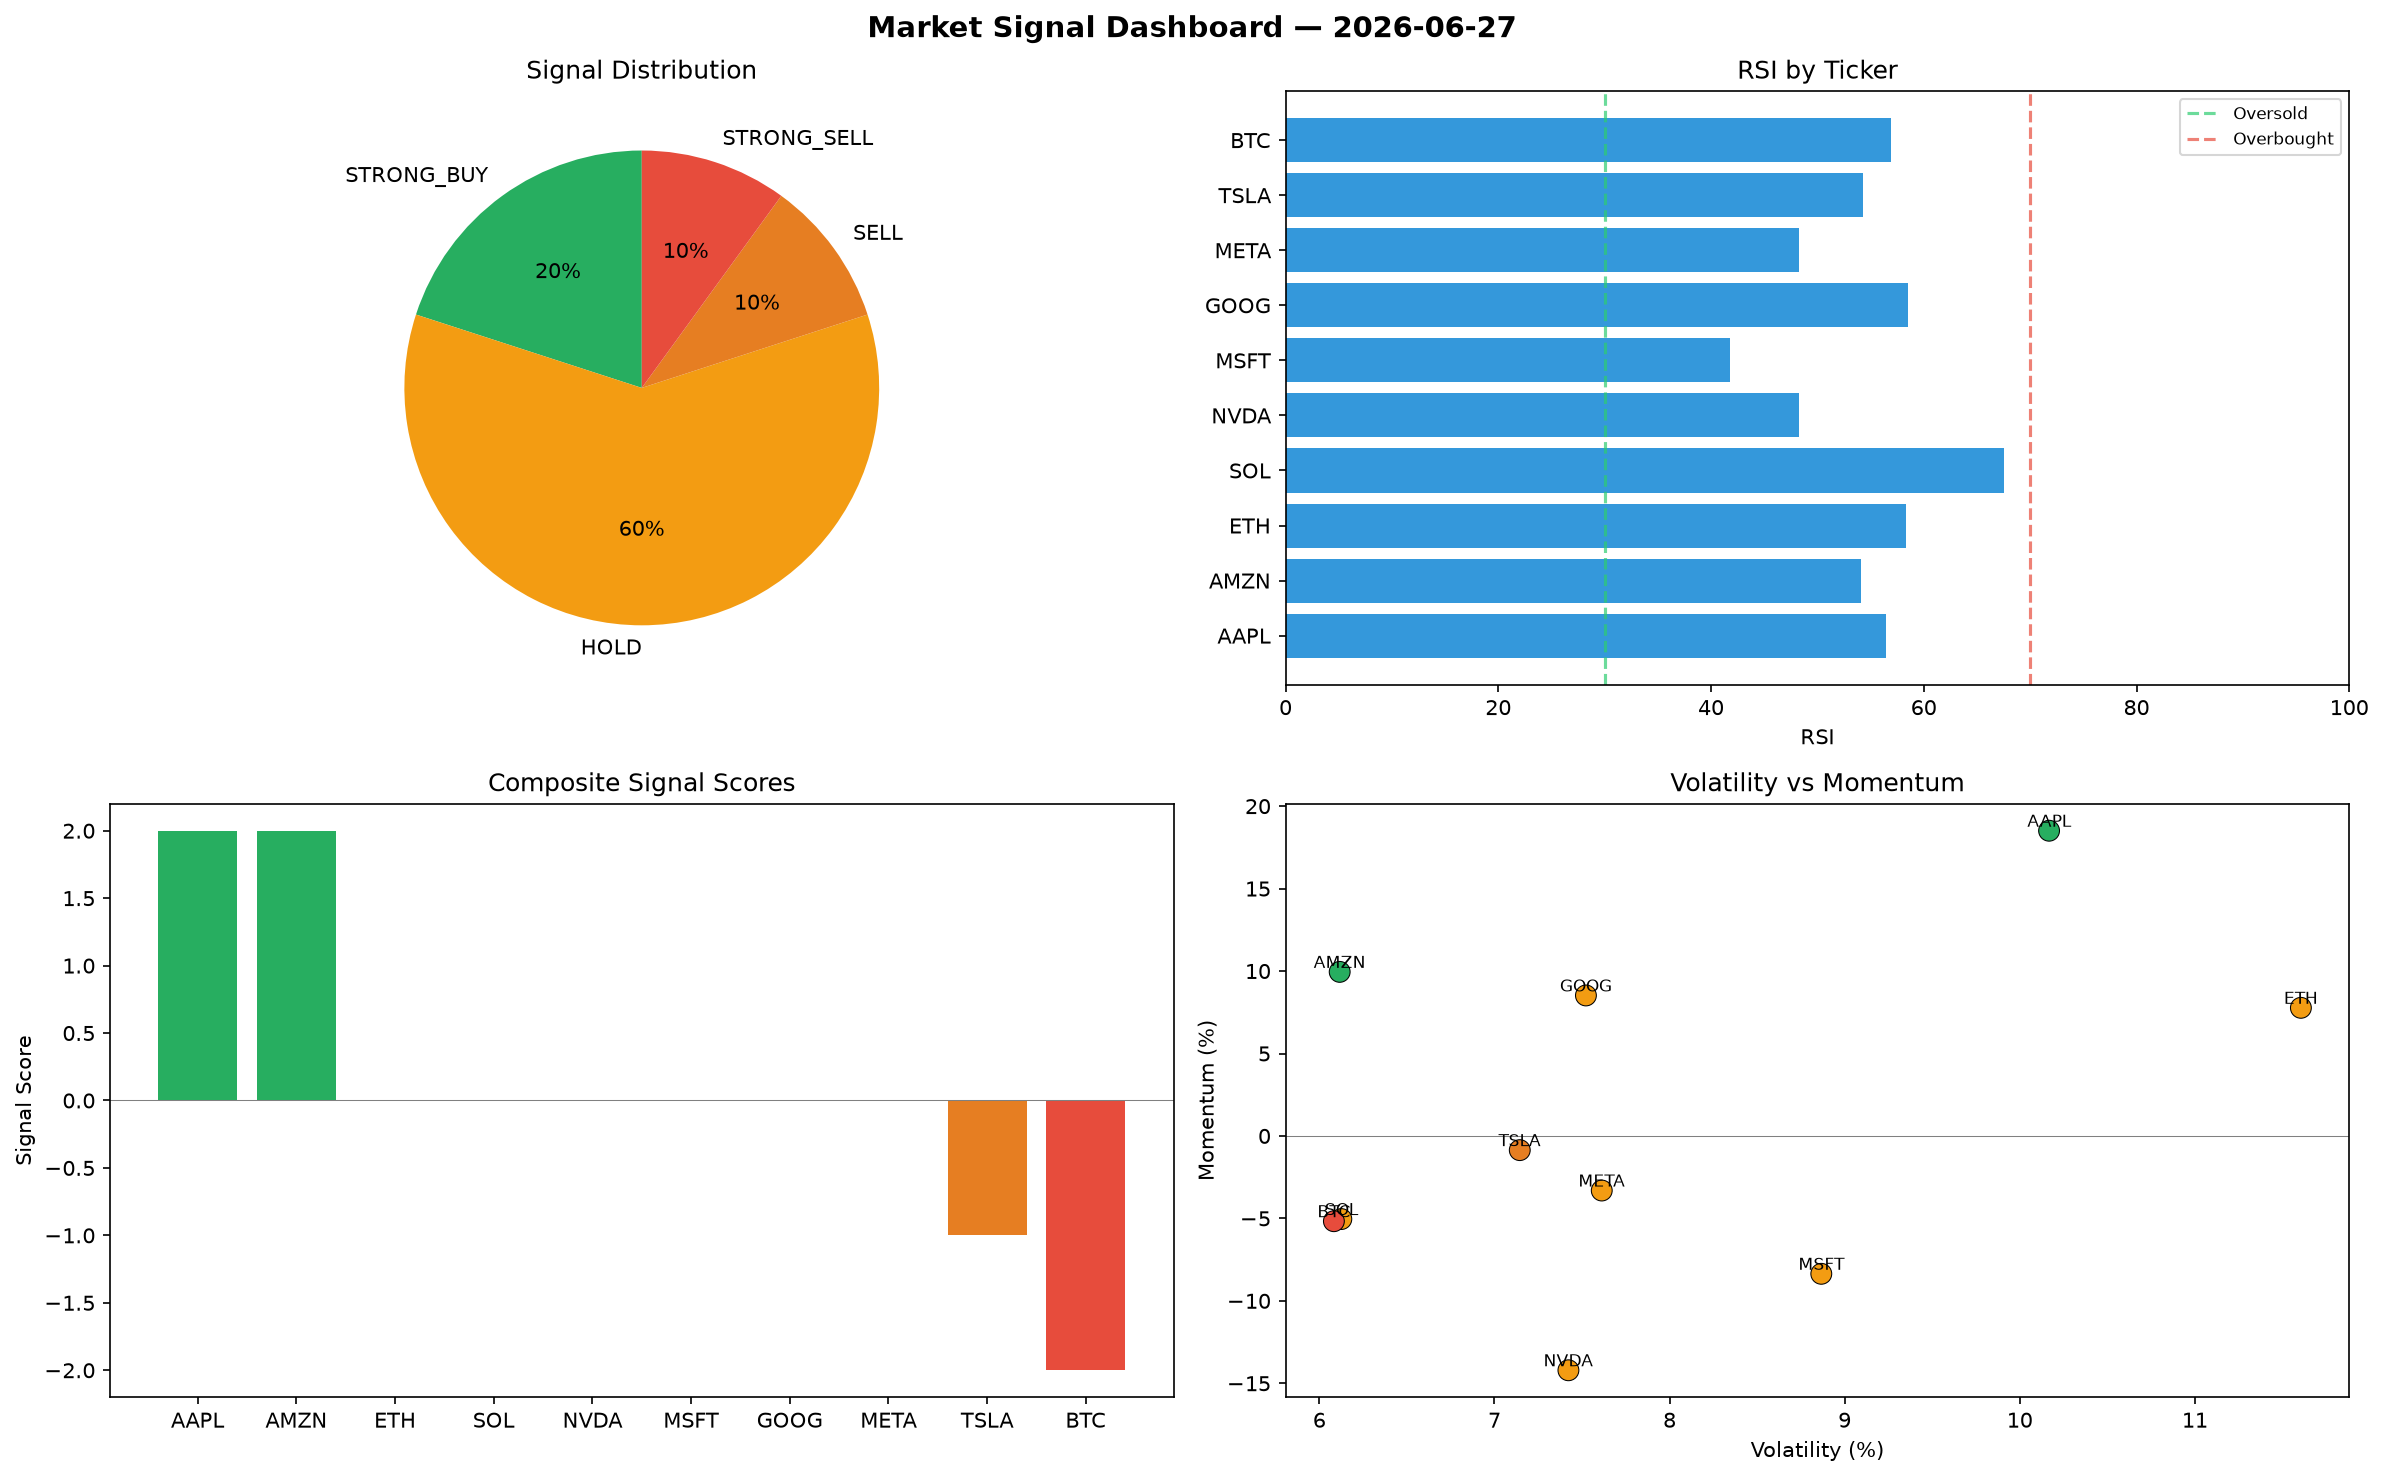
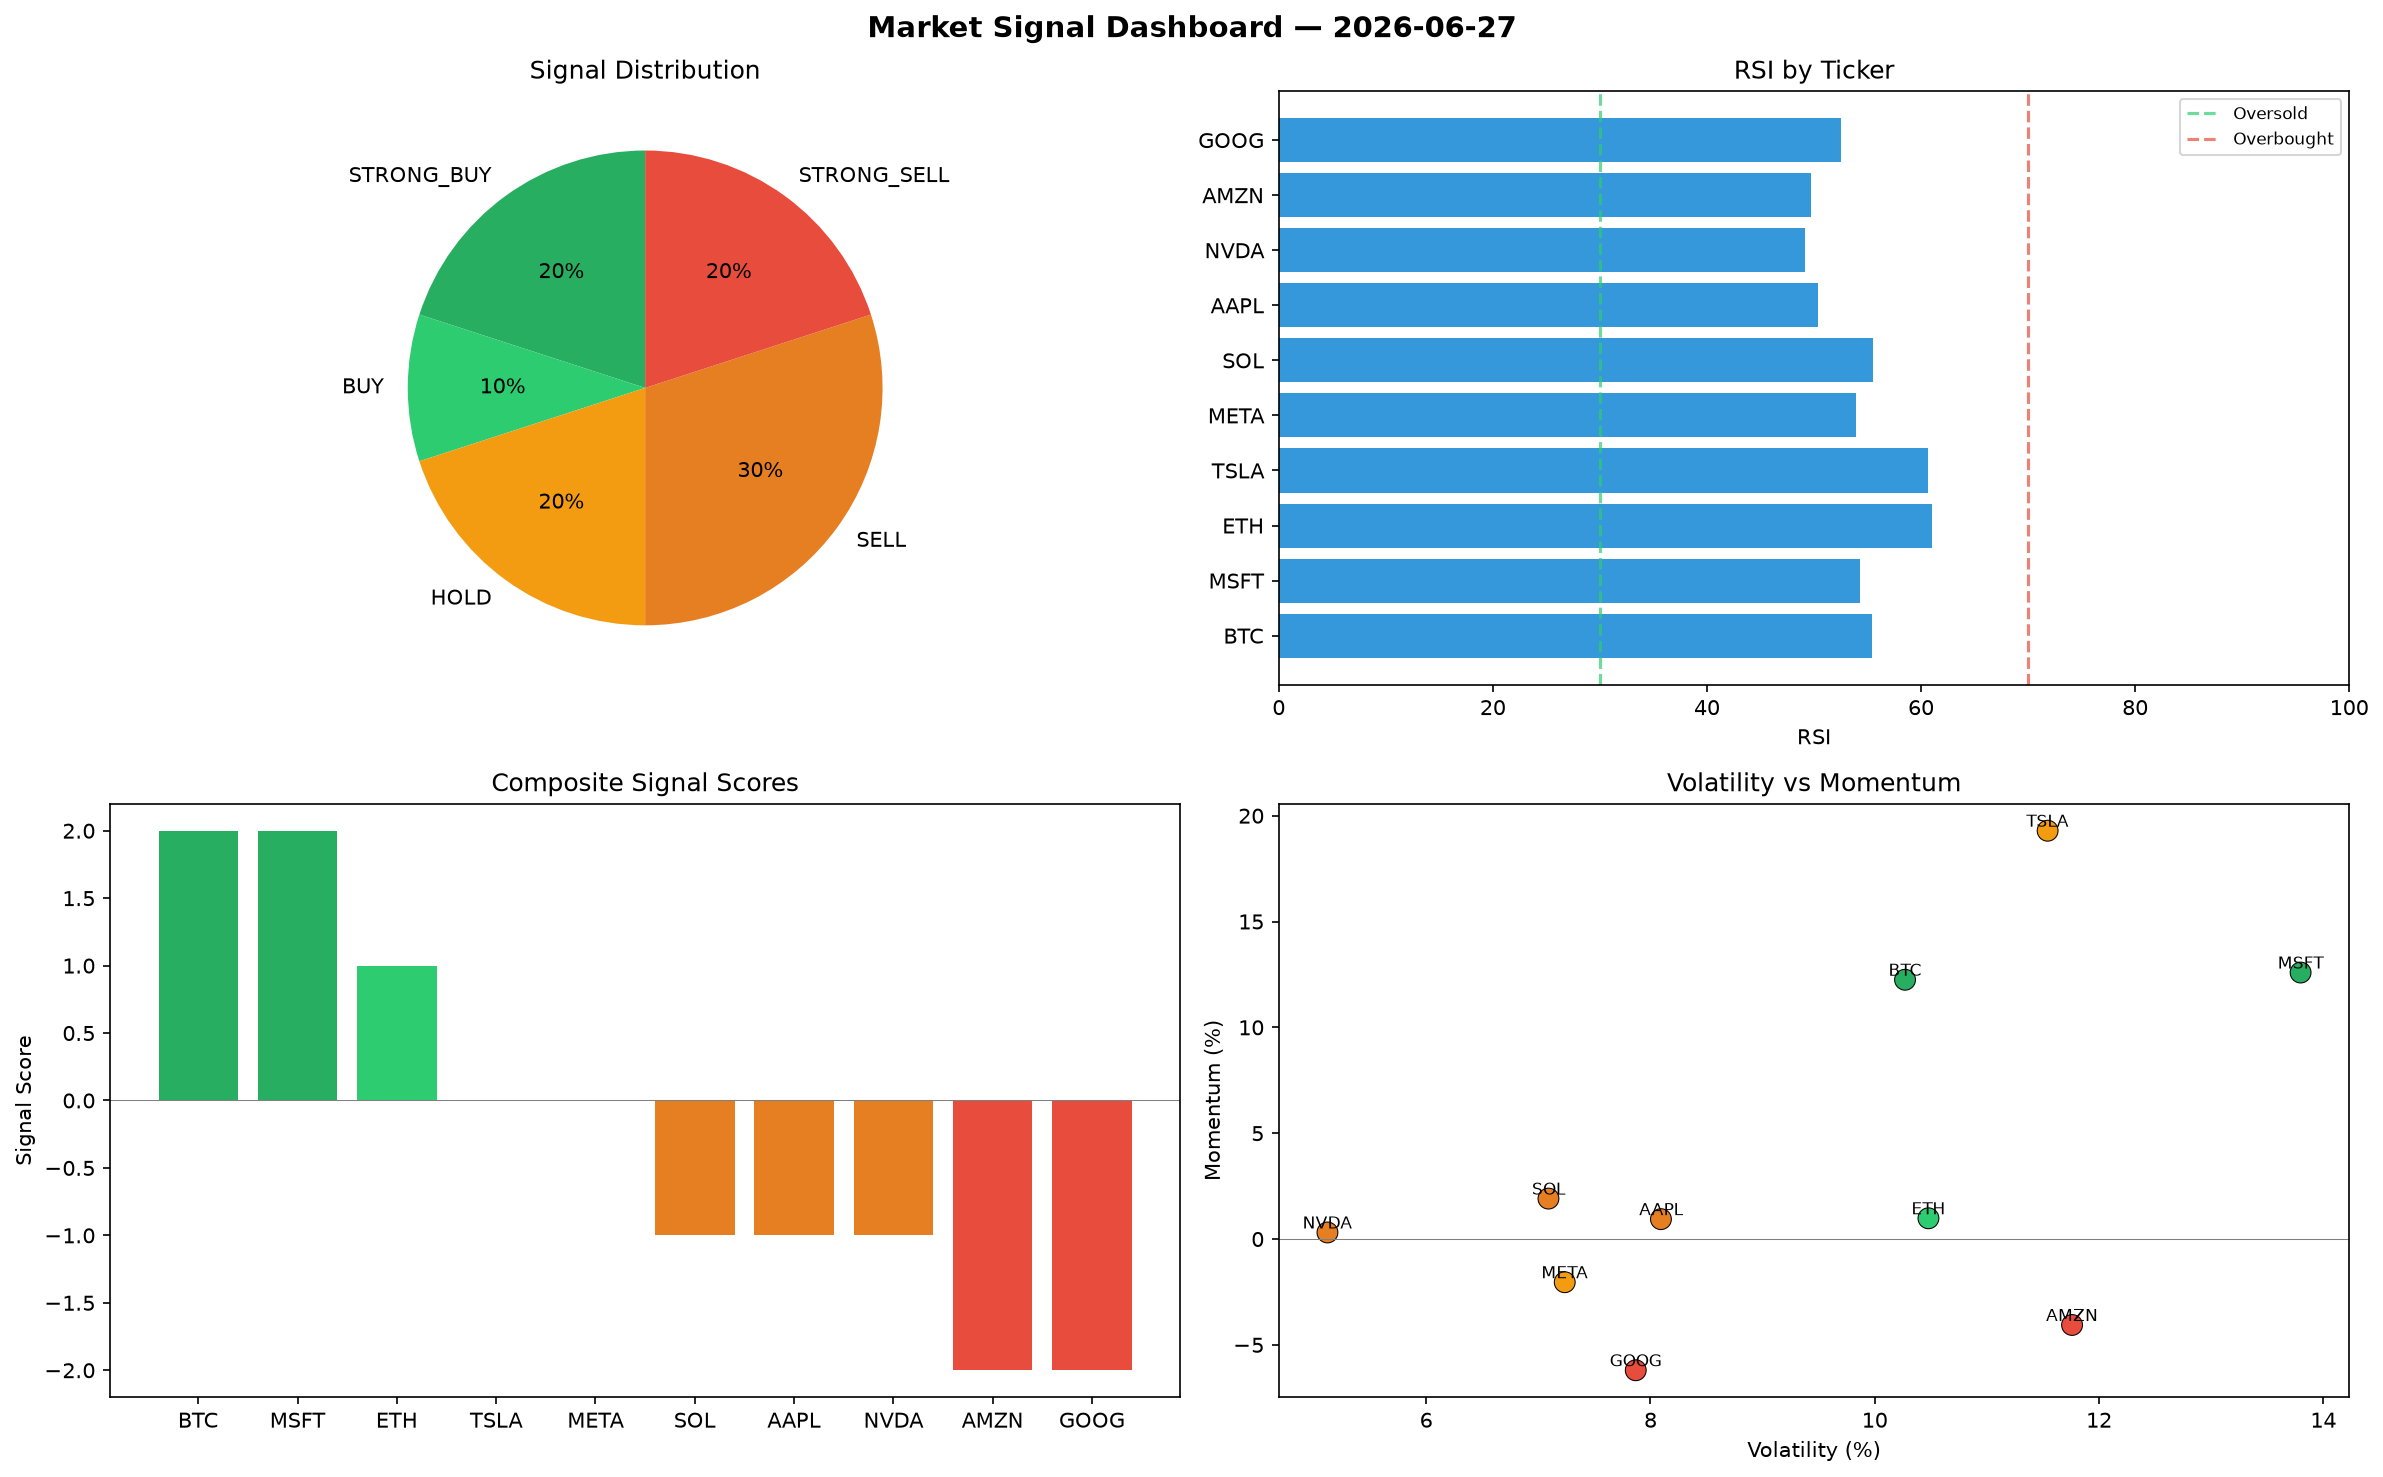
automated-bots: market signals 2026-06-27T21:35

diff --git a/logs/2026-06-27.md b/logs/2026-06-27.md
@@ -1,6 +1,6 @@
 # Market Signal Report — 2026-06-27
 
-**Run ID:** `6eceeb5231` | **Buy:** 2 | **Sell:** 2 | **Hold:** 6
+**Run ID:** `76144940d2` | **Buy:** 3 | **Sell:** 5 | **Hold:** 2
 
 ![Dashboard](2026-06-27_dashboard.png)
 
@@ -8,28 +8,28 @@
 
 | Ticker | Price | Signal | Score | RSI | Momentum | Confidence |
 |--------|-------|--------|-------|-----|----------|------------|
-| AAPL | $788.92 | **STRONG_BUY** | 2 | 56.46 | 0.1851 | 0.5 |
-| AMZN | $1368.47 | **STRONG_BUY** | 2 | 54.08 | 0.0995 | 0.5 |
-| ETH | $2448.83 | **HOLD** | 0 | 58.31 | 0.0777 | 0.0 |
-| SOL | $2026.26 | **HOLD** | 0 | 67.57 | -0.0504 | 0.0 |
-| NVDA | $4497.01 | **HOLD** | 0 | 48.25 | -0.1421 | 0.0 |
-| MSFT | $696.51 | **HOLD** | 0 | 41.74 | -0.0836 | 0.0 |
-| GOOG | $2844.57 | **HOLD** | 0 | 58.52 | 0.0852 | 0.0 |
-| META | $4716.7 | **HOLD** | 0 | 48.26 | -0.0331 | 0.0 |
-| TSLA | $3630.45 | **SELL** | -1 | 54.3 | -0.0086 | 0.25 |
-| BTC | $4912.1 | **STRONG_SELL** | -2 | 56.95 | -0.0517 | 0.5 |
+| BTC | $2074.35 | **STRONG_BUY** | 2 | 55.45 | 0.1225 | 0.5 |
+| MSFT | $4295.37 | **STRONG_BUY** | 2 | 54.25 | 0.1259 | 0.5 |
+| ETH | $960.85 | **BUY** | 1 | 61.06 | 0.0098 | 0.25 |
+| TSLA | $3363.87 | **HOLD** | 0 | 60.61 | 0.1929 | 0.0 |
+| META | $149.73 | **HOLD** | 0 | 53.9 | -0.0204 | 0.0 |
+| SOL | $2710.18 | **SELL** | -1 | 55.55 | 0.0191 | 0.25 |
+| AAPL | $3041.06 | **SELL** | -1 | 50.4 | 0.0094 | 0.25 |
+| NVDA | $4245.81 | **SELL** | -1 | 49.15 | 0.0031 | 0.25 |
+| AMZN | $2117.08 | **STRONG_SELL** | -2 | 49.7 | -0.0406 | 0.5 |
+| GOOG | $2631.21 | **STRONG_SELL** | -2 | 52.48 | -0.062 | 0.5 |
 
 ## Delta vs Yesterday
 
 | Ticker | Today | Yesterday | Price Change | Signal Changed |
 |--------|-------|-----------|-------------|----------------|
-| AAPL | STRONG_BUY | STRONG_SELL | 📉 -59.55% | ⚠ YES |
-| AMZN | STRONG_BUY | HOLD | 📉 -30.28% | ⚠ YES |
-| ETH | HOLD | HOLD | 📉 -0.56% | — |
-| SOL | HOLD | STRONG_BUY | 📉 -19.12% | ⚠ YES |
-| NVDA | HOLD | HOLD | 📈 6205.4% | — |
-| MSFT | HOLD | STRONG_BUY | 📉 -85.67% | ⚠ YES |
-| GOOG | HOLD | STRONG_SELL | 📈 11.03% | ⚠ YES |
-| META | HOLD | HOLD | 📈 61.39% | — |
-| TSLA | SELL | SELL | 📈 257.87% | — |
-| BTC | STRONG_SELL | HOLD | 📈 21.61% | ⚠ YES |
+| BTC | STRONG_BUY | HOLD | 📉 -48.64% | ⚠ YES |
+| MSFT | STRONG_BUY | STRONG_BUY | 📉 -11.65% | — |
+| ETH | BUY | HOLD | 📉 -60.98% | ⚠ YES |
+| TSLA | HOLD | SELL | 📈 231.59% | ⚠ YES |
+| META | HOLD | HOLD | 📉 -94.88% | — |
+| SOL | SELL | STRONG_BUY | 📈 8.17% | ⚠ YES |
+| AAPL | SELL | STRONG_SELL | 📈 55.93% | ⚠ YES |
+| NVDA | SELL | HOLD | 📈 5853.18% | ⚠ YES |
+| AMZN | STRONG_SELL | HOLD | 📈 7.87% | ⚠ YES |
+| GOOG | STRONG_SELL | STRONG_SELL | 📈 2.7% | — |
